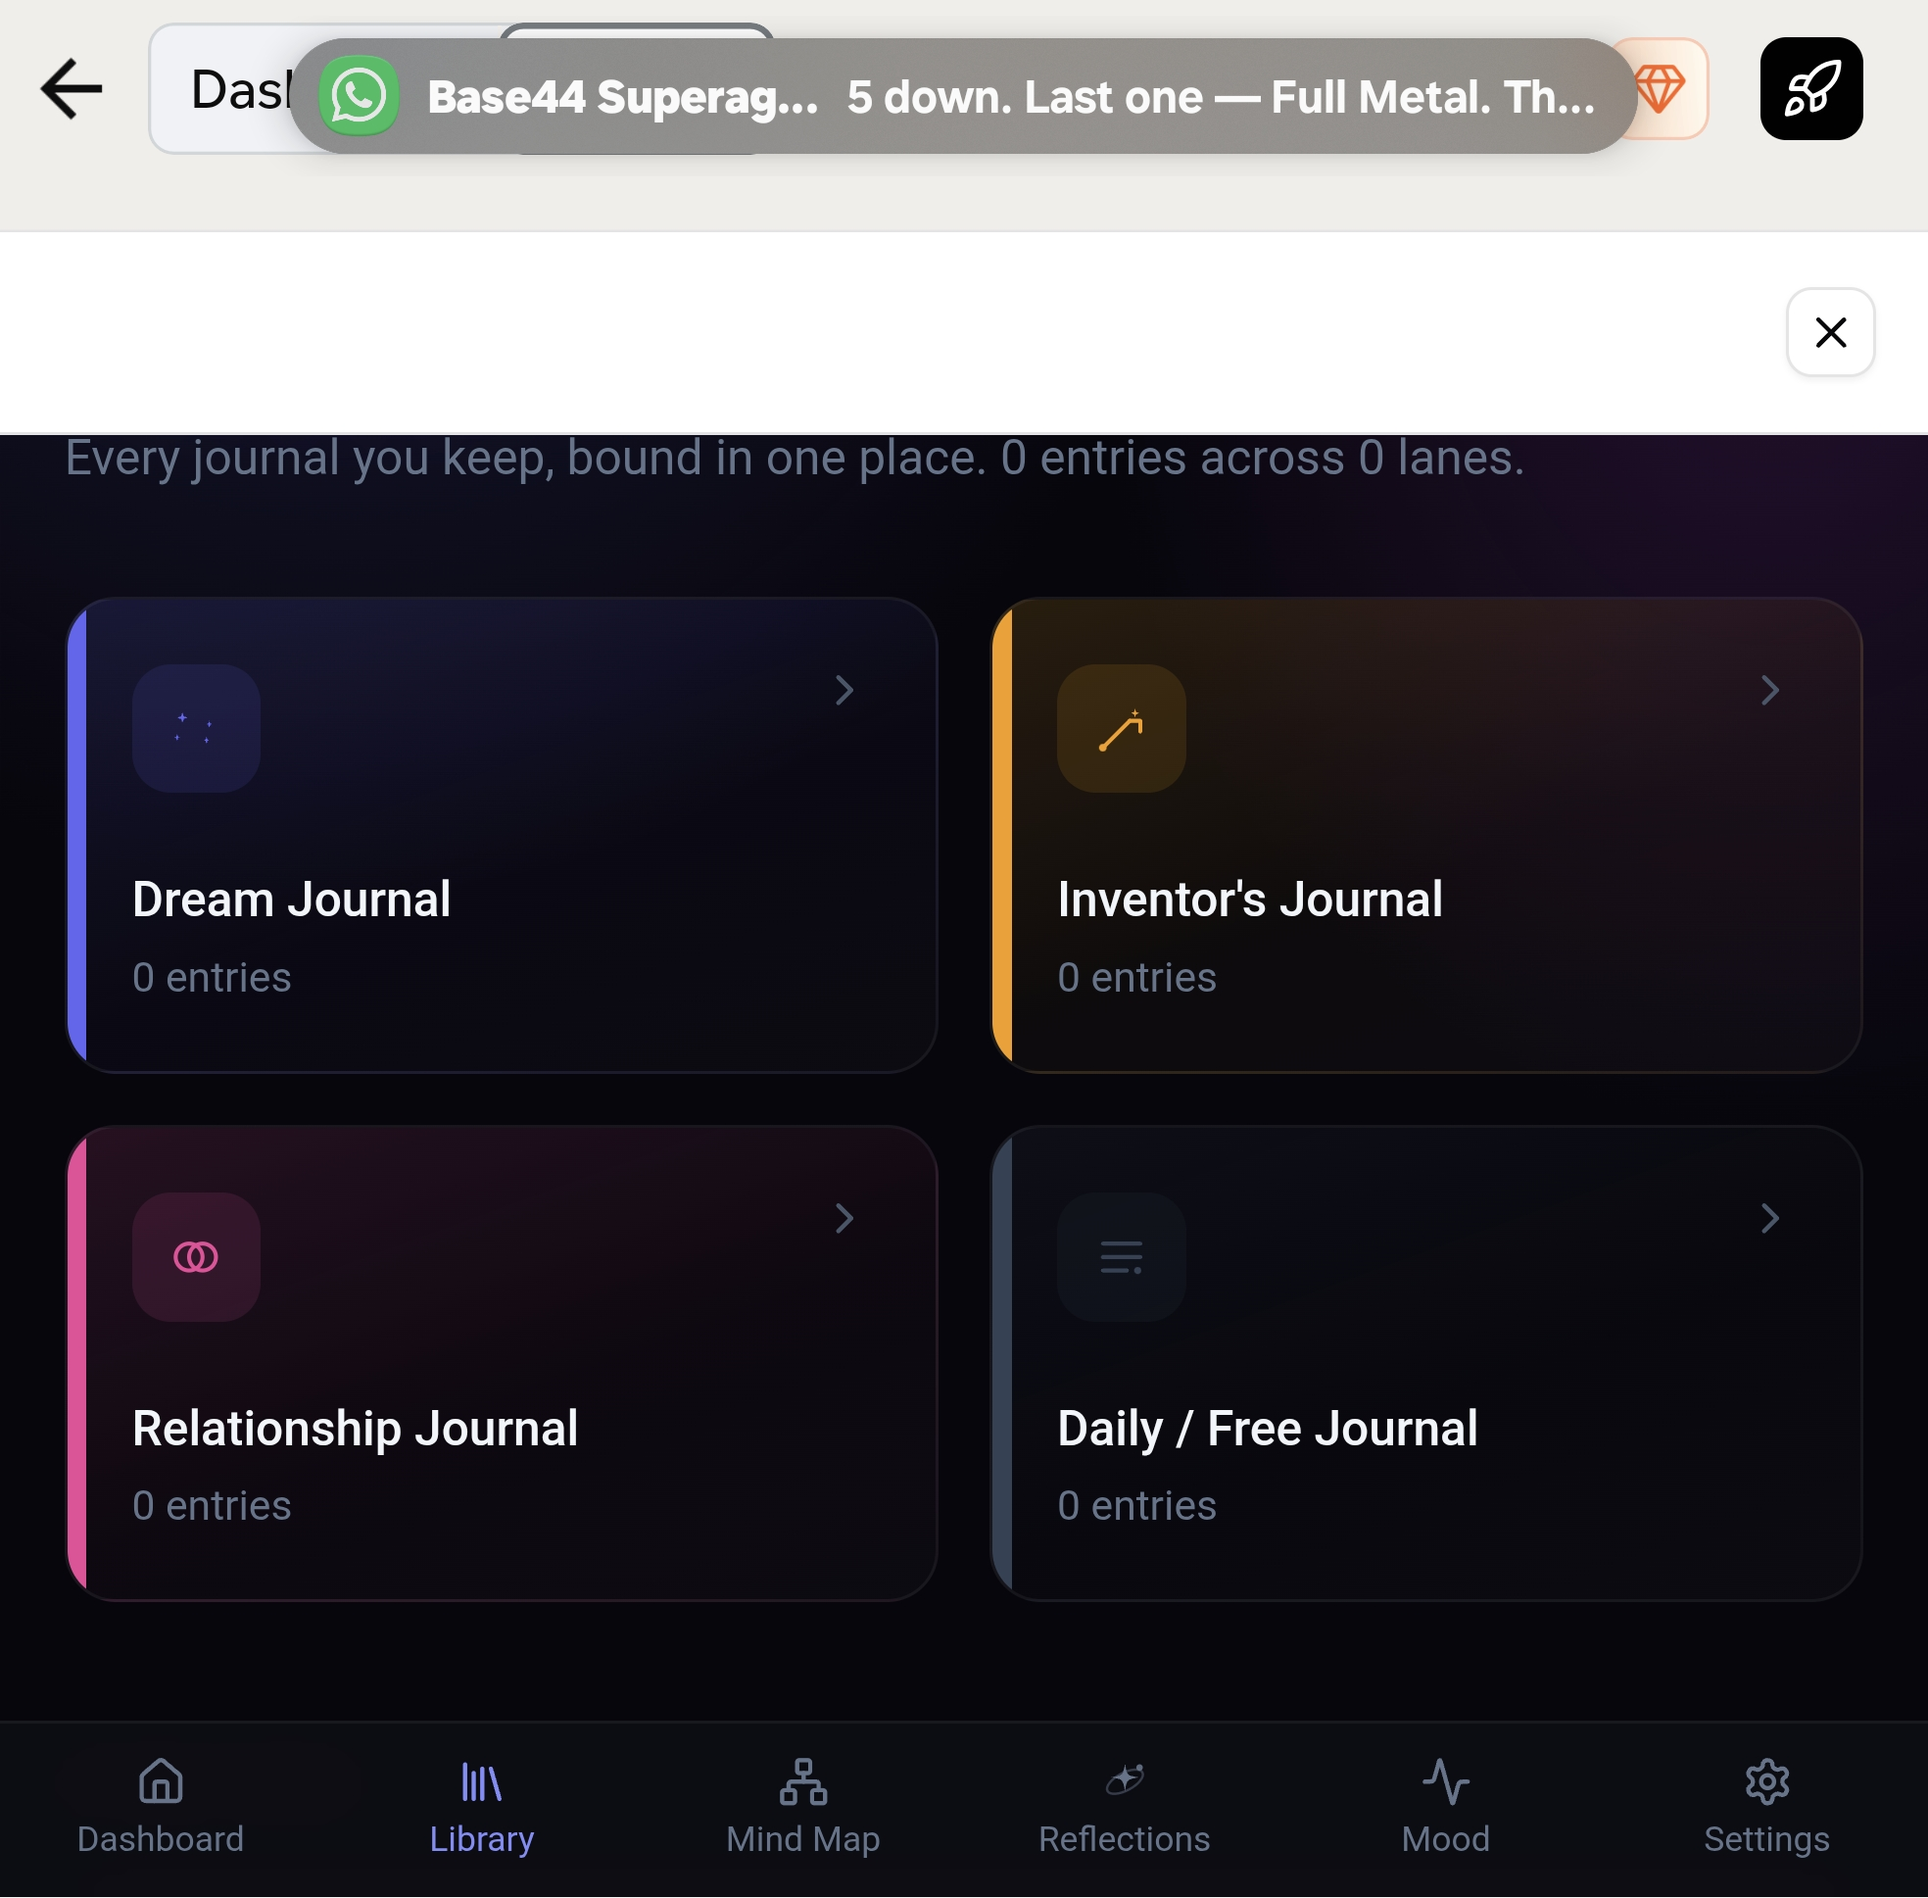
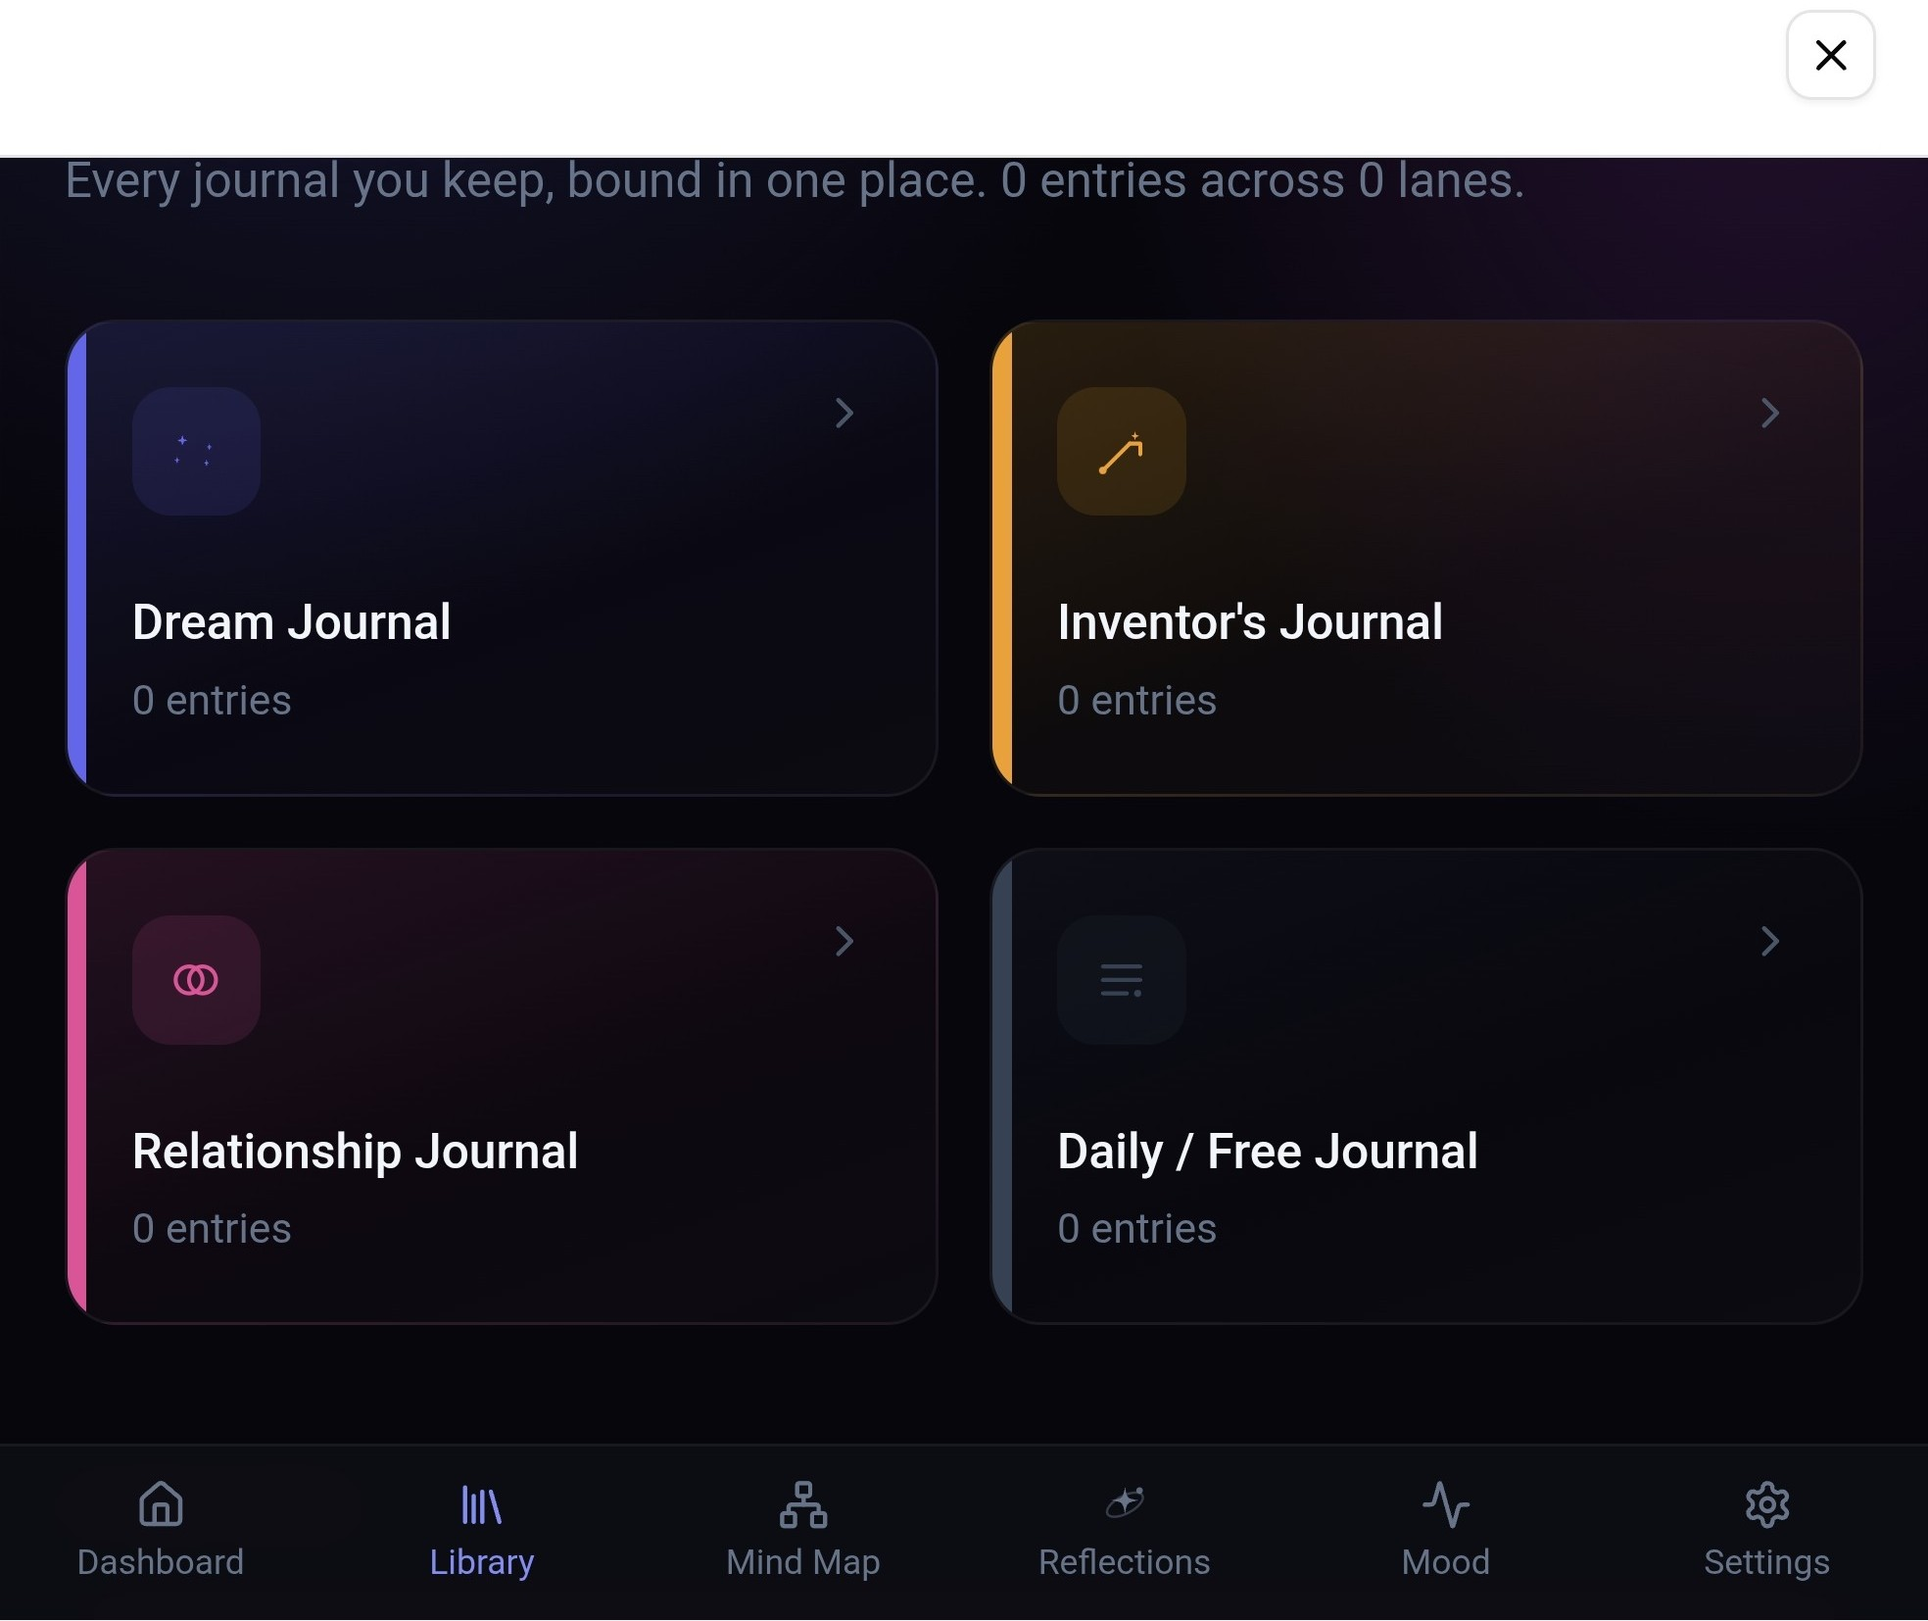
Site cleanup 2026-09-25: fix 6 bad images, remove 19 duplicates, add app showcase system (template+generator+SpinStakes entry)

diff --git a/apps/spinstakes.html b/apps/spinstakes.html
@@ -1,0 +1,67 @@
+<!doctype html>
+<html lang="en">
+<head>
+<meta charset="UTF-8" />
+<meta name="viewport" content="width=device-width, initial-scale=1.0" />
+<link rel="icon" type="image/svg+xml" href="/favicon.svg" />
+<title>SpinStakes — Sovereign Developers</title>
+<meta name="description" content="Free slots. Real prizes. Every spin earns." />
+<link rel="stylesheet" href="https://fonts.googleapis.com/css2?family=Cinzel:wght@400;600&family=DM+Sans:wght@300;400;500;600&display=swap" />
+<style>
+  :root { --bg:#070d14; --gold:#c9a84c; --ink:#eef2f6; --mut:#8ba4b8; --card:#0d1622; }
+  * { box-sizing:border-box; margin:0; padding:0; }
+  body { background:var(--bg); color:var(--ink); font-family:'DM Sans',sans-serif; line-height:1.6; }
+  a { color:var(--gold); }
+  .wrap { max-width:1080px; margin:0 auto; padding:0 24px; }
+  header.top { padding:22px 0; border-bottom:1px solid #16222f; }
+  header.top a.home { display:inline-flex; align-items:center; gap:12px; text-decoration:none; color:var(--ink);
+    font-family:'Cinzel',serif; letter-spacing:2px; font-size:14px; }
+  header.top img { width:34px; height:34px; border-radius:8px; object-fit:cover; }
+  .hero { display:flex; gap:36px; align-items:center; padding:56px 0 40px; flex-wrap:wrap; }
+  .hero img.icon { width:168px; height:168px; border-radius:36px; object-fit:cover;
+    box-shadow:0 18px 50px rgba(0,0,0,.55), 0 0 0 1px #1d2c3d; }
+  .hero h1 { font-family:'Cinzel',serif; font-size:44px; letter-spacing:1px; margin-bottom:6px; }
+  .hero p.tag { color:var(--gold); font-size:18px; margin-bottom:18px; }
+  .storebtn { display:inline-block; background:var(--gold); color:#0a0f16; font-weight:600;
+    padding:14px 30px; border-radius:12px; text-decoration:none; font-size:17px; }
+  .storebtn:hover { filter:brightness(1.08); }
+  .storebtn.disabled { background:#24303d; color:var(--mut); cursor:default; }
+  .badge { display:inline-block; font-size:12px; letter-spacing:2px; text-transform:uppercase; color:var(--mut);
+    border:1px solid #22303f; border-radius:999px; padding:6px 14px; margin-bottom:14px; }
+  section { padding:34px 0; }
+  h2 { font-family:'Cinzel',serif; font-size:26px; margin-bottom:18px; letter-spacing:1px; }
+  .shots { display:grid; grid-template-columns:repeat(auto-fit,minmax(220px,1fr)); gap:20px; }
+  figure.shot { background:var(--card); border:1px solid #16222f; border-radius:16px; overflow:hidden; }
+  figure.shot img { width:100%; aspect-ratio:9/16; object-fit:cover; display:block; background:#000; }
+  figure.shot figcaption { padding:12px 14px; font-size:14px; color:var(--mut); }
+  .desc { font-size:18px; font-weight:300; max-width:760px; color:#d7dee6; }
+  .pending { border:1px dashed #2a3a4d; border-radius:16px; padding:28px; color:var(--mut); text-align:center; }
+  footer { border-top:1px solid #16222f; margin-top:40px; padding:26px 0 60px; color:var(--mut); font-size:13px; }
+</style>
+</head>
+<body>
+<header class="top"><div class="wrap">
+  <a class="home" href="/"><img src="/static/sovereign-developers-logo.png" alt="Sovereign Developers" />SOVEREIGN DEVELOPERS</a>
+</div></header>
+<div class="wrap">
+  <div class="hero">
+    <img class="icon" src="/static/apps/spinstakes-icon.png" alt="SpinStakes app icon" />
+    <div>
+      <span class="badge">Coming soon</span>
+      <h1>SpinStakes</h1>
+      <p class="tag">Free slots. Real prizes. Every spin earns.</p>
+      <span class="storebtn disabled">Coming soon to Google Play</span>
+    </div>
+  </div>
+  <section>
+    <h2>Inside the app</h2>
+    <div class="pending">Walkthrough screenshots land here straight from the device walk — real screens, exactly as a user sees them. No mockups, ever.</div>
+  </section>
+  <section>
+    <h2>About SpinStakes</h2>
+    <p class="desc">SpinStakes is a free slot-machine app with five machines to play. Spins earn coins, coins turn into sweepstakes tickets, and you pick which drawing your tickets go into. Monthly drawings for real prizes, funded by ads — and every winner is posted publicly in the app. No purchases, no paid coins, ever.</p>
+  </section>
+</div>
+<footer><div class="wrap">© Sovereign Developers · Every product scaled, every line of code owned by us.</div></footer>
+</body>
+</html>

diff --git a/showcase/make-showcase.py b/showcase/make-showcase.py
@@ -1,0 +1,127 @@
+#!/usr/bin/env python3
+"""Generate a per-app showcase page for sovereigndevelopers.org.
+
+Usage: python3 make-showcase.py <manifest.json>
+  Reads showcase/<slug>.json, writes apps/<slug>.html
+
+Manifest fields:
+  slug         url-safe id, e.g. "spinstakes"
+  name         display name, e.g. "SpinStakes"
+  tagline      one-line hook under the name
+  description  2-4 sentence product description (plain words)
+  icon         path relative to site root, e.g. "static/apps/spinstakes-icon.png"
+  screenshots  list of {src, caption} — exactly what a user sees in the app
+  play_url     full Google Play listing URL, or null when not public yet
+  status       "live" | "coming_soon" | "early_access"
+
+Asset rules (enforced, not suggested):
+  - icon: 512x512 PNG, no stretching, no clipped edges, no text baked over UI
+  - screenshots: real app screens as the user sees them (device-walk captures),
+    1080x1920 portrait preferred; never mockups of upload dialogs, never
+    browser chrome, never instructional text baked into the image
+"""
+import json, os, sys, html
+
+ROOT = os.path.dirname(os.path.dirname(os.path.abspath(__file__)))
+
+PAGE = """<!doctype html>
+<html lang="en">
+<head>
+<meta charset="UTF-8" />
+<meta name="viewport" content="width=device-width, initial-scale=1.0" />
+<link rel="icon" type="image/svg+xml" href="/favicon.svg" />
+<title>{name} — Sovereign Developers</title>
+<meta name="description" content="{tagline}" />
+<link rel="stylesheet" href="https://fonts.googleapis.com/css2?family=Cinzel:wght@400;600&family=DM+Sans:wght@300;400;500;600&display=swap" />
+<style>
+  :root {{ --bg:#070d14; --gold:#c9a84c; --ink:#eef2f6; --mut:#8ba4b8; --card:#0d1622; }}
+  * {{ box-sizing:border-box; margin:0; padding:0; }}
+  body {{ background:var(--bg); color:var(--ink); font-family:'DM Sans',sans-serif; line-height:1.6; }}
+  a {{ color:var(--gold); }}
+  .wrap {{ max-width:1080px; margin:0 auto; padding:0 24px; }}
+  header.top {{ padding:22px 0; border-bottom:1px solid #16222f; }}
+  header.top a.home {{ display:inline-flex; align-items:center; gap:12px; text-decoration:none; color:var(--ink);
+    font-family:'Cinzel',serif; letter-spacing:2px; font-size:14px; }}
+  header.top img {{ width:34px; height:34px; border-radius:8px; object-fit:cover; }}
+  .hero {{ display:flex; gap:36px; align-items:center; padding:56px 0 40px; flex-wrap:wrap; }}
+  .hero img.icon {{ width:168px; height:168px; border-radius:36px; object-fit:cover;
+    box-shadow:0 18px 50px rgba(0,0,0,.55), 0 0 0 1px #1d2c3d; }}
+  .hero h1 {{ font-family:'Cinzel',serif; font-size:44px; letter-spacing:1px; margin-bottom:6px; }}
+  .hero p.tag {{ color:var(--gold); font-size:18px; margin-bottom:18px; }}
+  .storebtn {{ display:inline-block; background:var(--gold); color:#0a0f16; font-weight:600;
+    padding:14px 30px; border-radius:12px; text-decoration:none; font-size:17px; }}
+  .storebtn:hover {{ filter:brightness(1.08); }}
+  .storebtn.disabled {{ background:#24303d; color:var(--mut); cursor:default; }}
+  .badge {{ display:inline-block; font-size:12px; letter-spacing:2px; text-transform:uppercase; color:var(--mut);
+    border:1px solid #22303f; border-radius:999px; padding:6px 14px; margin-bottom:14px; }}
+  section {{ padding:34px 0; }}
+  h2 {{ font-family:'Cinzel',serif; font-size:26px; margin-bottom:18px; letter-spacing:1px; }}
+  .shots {{ display:grid; grid-template-columns:repeat(auto-fit,minmax(220px,1fr)); gap:20px; }}
+  figure.shot {{ background:var(--card); border:1px solid #16222f; border-radius:16px; overflow:hidden; }}
+  figure.shot img {{ width:100%; aspect-ratio:9/16; object-fit:cover; display:block; background:#000; }}
+  figure.shot figcaption {{ padding:12px 14px; font-size:14px; color:var(--mut); }}
+  .desc {{ font-size:18px; font-weight:300; max-width:760px; color:#d7dee6; }}
+  .pending {{ border:1px dashed #2a3a4d; border-radius:16px; padding:28px; color:var(--mut); text-align:center; }}
+  footer {{ border-top:1px solid #16222f; margin-top:40px; padding:26px 0 60px; color:var(--mut); font-size:13px; }}
+</style>
+</head>
+<body>
+<header class="top"><div class="wrap">
+  <a class="home" href="/"><img src="/static/sovereign-developers-logo.png" alt="Sovereign Developers" />SOVEREIGN DEVELOPERS</a>
+</div></header>
+<div class="wrap">
+  <div class="hero">
+    <img class="icon" src="/{icon}" alt="{name} app icon" />
+    <div>
+      <span class="badge">{status_label}</span>
+      <h1>{name}</h1>
+      <p class="tag">{tagline}</p>
+      {cta}
+    </div>
+  </div>
+  <section>
+    <h2>Inside the app</h2>
+    {gallery}
+  </section>
+  <section>
+    <h2>About {name}</h2>
+    <p class="desc">{description}</p>
+  </section>
+</div>
+<footer><div class="wrap">© Sovereign Developers · Every product scaled, every line of code owned by us.</div></footer>
+</body>
+</html>
+"""
+
+def main():
+    mf_path = sys.argv[1]
+    m = json.load(open(mf_path))
+    for k in ("slug","name","tagline","description","icon","screenshots","status"):
+        assert k in m, f"manifest missing '{k}'"
+    shots = m["screenshots"]
+    assert 0 <= len(shots) <= 4, "0-4 screenshots"
+    if shots:
+        gallery = '<div class="shots">\n' + "\n".join(
+            '  <figure class="shot"><img src="/%s" alt="%s" loading="lazy" /><figcaption>%s</figcaption></figure>'
+            % (html.escape(s["src"]), html.escape(m["name"]+" screenshot"),
+               html.escape(s.get("caption",""))) for s in shots) + "\n</div>"
+    else:
+        gallery = ('<div class="pending">Walkthrough screenshots land here straight from the '
+                   'device walk — real screens, exactly as a user sees them. No mockups, ever.</div>')
+    labels = {"live":"Live on Google Play","coming_soon":"Coming soon","early_access":"Early access"}
+    if m["status"]=="live" and m.get("play_url"):
+        cta = '<a class="storebtn" href="%s">Get it on Google Play</a>' % html.escape(m["play_url"], quote=True)
+    else:
+        cta = '<span class="storebtn disabled">Coming soon to Google Play</span>'
+    page = PAGE.format(
+        name=html.escape(m["name"]), tagline=html.escape(m["tagline"]),
+        description=html.escape(m["description"]),
+        icon=html.escape(m["icon"]), gallery=gallery,
+        status_label=labels.get(m["status"], m["status"]), cta=cta)
+    out = os.path.join(ROOT, "apps", m["slug"] + ".html")
+    os.makedirs(os.path.dirname(out), exist_ok=True)
+    open(out,"w").write(page)
+    print("wrote", out, "(%d screenshots, status=%s)" % (len(shots), m["status"]))
+
+if __name__ == "__main__":
+    main()

diff --git a/showcase/SHOWCASE-README.md b/showcase/SHOWCASE-README.md
@@ -1,0 +1,63 @@
+# App Showcase — the repeatable per-app pattern
+
+Michael's order (2026-09-25): every app on sovereigndevelopers.org gets the SAME entry —
+app icon, 3–4 interior walkthrough screenshots exactly as a user sees them, a short
+description, and a download button hot-linked to the Play Store listing.
+
+## The pattern (no deviations)
+
+1. **Icon** — `static/apps/<slug>-icon.png`, 512×512 PNG.
+   The real product icon. No stretching, no clipped edges, no text baked over UI,
+   no tight face-crops. If the build's icon needs framing, frame it on dark `#070d14`
+   with rounded corners — never squash it.
+2. **Screenshots** — `static/apps/<slug>-shot-1.jpg` … `-shot-4.jpg`, 3–4 of them.
+   Real screens captured during Boss's device walk, exactly as a user sees them.
+   NEVER: photos of upload dialogs, browser chrome, instructional text baked in
+   ("GOOGLE PLAY STORE LISTING 1024x500"), AI mockups passed off as screens.
+3. **Description** — 2–4 sentences, plain words. What it is, what the user does,
+   what makes it worth downloading.
+4. **Download button** — hot link to the Play Store listing. Until the listing is
+   public, the button renders as a disabled "Coming soon to Google Play".
+
+## How to ship a new app entry
+
+```bash
+cd /path/to/sovereigndevelopers-site
+# 1. drop assets in place
+#    static/apps/<slug>-icon.png  (512x512)
+#    static/apps/<slug>-shot-{1..4}.jpg
+# 2. write the manifest
+cp showcase/_manifest-example.json showcase/<slug>.json   # then fill it in
+# 3. generate the page
+python3 showcase/make-showcase.py showcase/<slug>.json
+# 4. commit + push to main (GitHub Pages publishes it)
+```
+
+Manifest fields: `slug`, `name`, `tagline`, `description`, `icon`, `screenshots`
+(list of `{src, caption}`), `play_url` (null until public), `status`
+(`live` | `coming_soon` | `early_access`).
+
+## Pipeline integration
+
+- **At submission:** the showcase entry is STAGED — icon + description + screenshots
+  from the device walk, button in "coming soon" state, page generated but Play link empty.
+- **When the Play listing goes public:** set `play_url`, flip `status` to `live`,
+  regenerate, push. The button goes live the same day.
+- **Screenshots come from Boss's walk** — that is the standing source. No stock
+  art, no AI filler.
+
+## What was cleaned (2026-09-25 audit)
+
+- `forever-us-icon.png` → replaced with the real 512×512 build icon (was a sloppy
+  crop with clipped text).
+- `forever-us-infinity-logo.jpg` → was a PHOTO OF A PHONE showing an upload
+  dialog ("Apply/Cancel/Upload" + app dock). Rebuilt as a clean render of the
+  real icon art.
+- `ibot-social-icon.jpg` → was a tight face-crop with the head clipped at the
+  edges. Reframed as a proper 512×512 icon with padding and rounded corners.
+- `full-metal-bookshelf-banner.jpg` → had "GOOGLE PLAY STORE LISTING 1024x500
+  pixels" instructional text baked across the top. Cropped out.
+- `multimind-journal-library.jpg` → had browser chrome at the top, including a
+  visible "Base44 Superag..." tab. Cropped out; now pure app UI.
+- `titan-chip-icon.png` → magenta placeholder background replaced with deep navy.
+- 19 byte-duplicate image files deleted (same image saved under 2–4 names).
